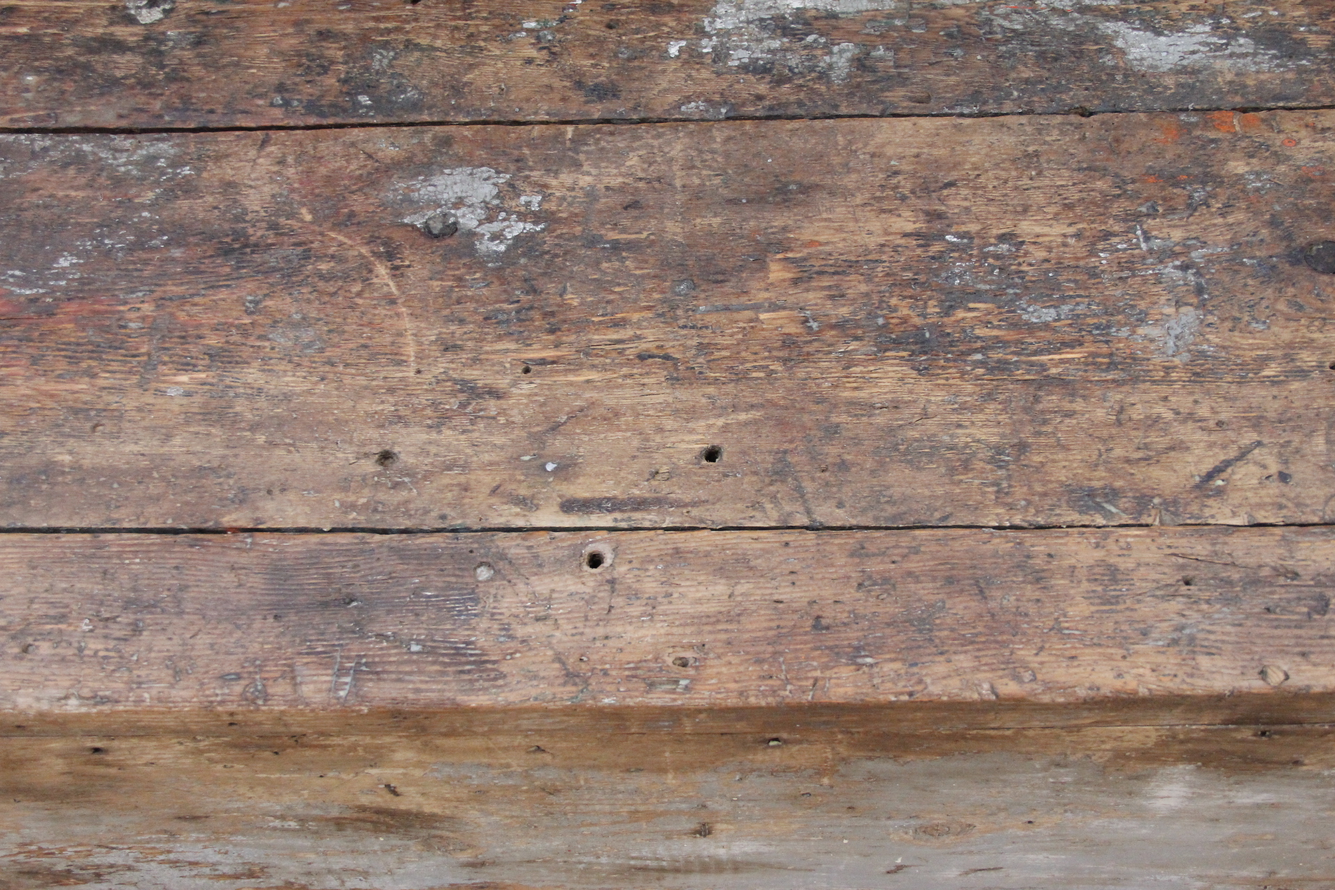
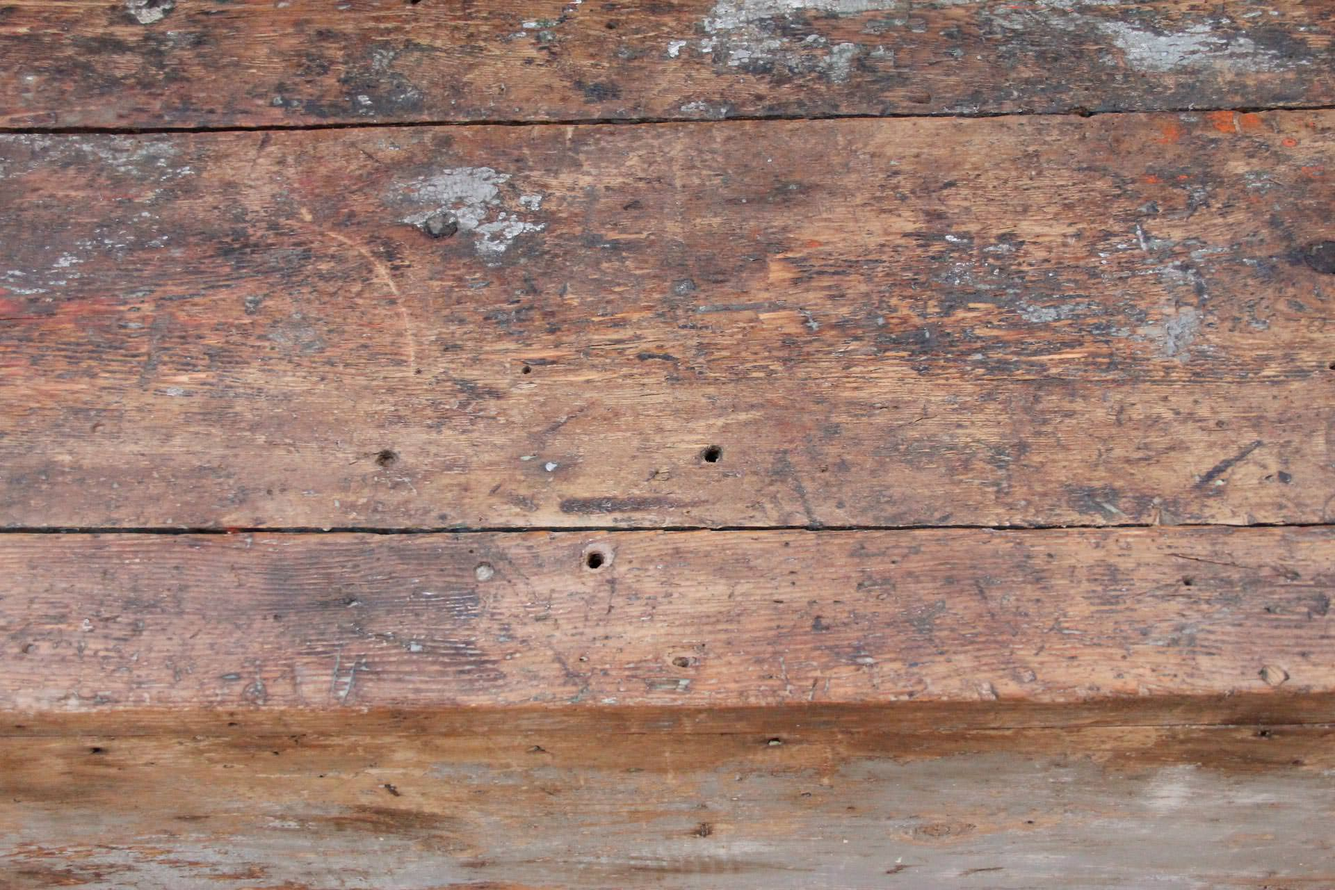
Reworks images and css

diff --git a/app/assets/stylesheets/custom.scss b/app/assets/stylesheets/custom.scss
@@ -4,6 +4,14 @@
   position: relative;
 }
 
+.btn-success {
+  background-color: #6F9000;
+  border-color: #6F9000;
+  &:hover {
+    background-color: darken(#6F9000, 5%);
+  }
+}
+
 // Flashes
 .flashes {
   font-family: "Amatic SC", cursive;
@@ -105,19 +113,23 @@
 }
 
 // Landing page lower section
+.how-it-works {
+  background-image: url("antique-table.jpg");
+
+  img {
+    max-width: 100%;
+  }
+}
+
 .how-header {
-  position: absolute;
-  bottom: 1075px;
-  left: 160px;
   font-family: 'Dawning of a New Day', cursive;
   color: white;
   font-weight: 575;
   font-size: 8em;
+  text-align: center;
 }
 
 .how-text.rounded {
-  position: absolute;
-  bottom: 300px;
   font-family: 'Amatic SC', cursive;
   font-size: 2em;
   font-weight: 600;
@@ -126,37 +138,20 @@
   border-radius: 10px;
 }
 
-  .screenshot1 {
-    position: absolute;
-    bottom: 760px;
-    right: 0px;
+  .screenshot {
     background-color: rgba(219, 220, 202, .7);
-    border-radius: 10px;
     border-style: solid;
-  }
-
-  .screenshot2 {
-    position: absolute;
-    bottom: 450px;
-    right: 0px;
-    background-color: rgba(219, 220, 202, .7);
-    border-radius: 10px;
-    border-style: solid;
-  }
-
-  .screenshot3 {
-    position: absolute;
-    bottom: 270px;
-    right: 0px;
-    background-color: rgba(219, 220, 202, .7);
-    border-radius: 10px;
-    border-style: solid;
+    margin-bottom: 20px;
   }
 
 // User dashboard
 body.user-dashboard {
   padding-top: 70px;
   margin-bottom: 50px;
+}
+
+.entries-table td {
+  vertical-align: middle !important;
 }
 
 .user-image-nav {
@@ -175,6 +170,13 @@ body.user-dashboard {
   font-weight: bold;
   font-size: 3em;
   margin-top: 70px;
+}
+
+.view-btn {
+  font-size: .7em;
+  font-weight: bold;
+  margin: .5em 0;
+  background: #E5E5E5;
 }
 
 .entries-table {
@@ -212,8 +214,10 @@ font-size: 13pt;
 }
 
 .add-entry-btn {
-  margin-top: 30px;
   font-size: 1.2em;
+  width: 2.2em;
+  line-height: 2.2em;
+  padding: 0;
 }
 
 // Entry page buttons

diff --git a/spec/features/new_meal_entry_ux_flow_spec.rb b/spec/features/new_meal_entry_ux_flow_spec.rb
@@ -9,7 +9,7 @@ RSpec.feature "New entry user flow", :type => :feature do
       click_on "Create New Entry"
 
       expect(page).to have_field("Date", with: (Date.today.strftime("%Y-%m-%d")))
-      expect(page).to have_field("Meal", with: "Choose Meal")
+      expect(page).to have_field("Meal")
       expect(page).to have_field("Ingredients", with: "")
       expect(page).to have_field("Notes", with: "")
 

diff --git a/app/controllers/entries_controller.rb b/app/controllers/entries_controller.rb
@@ -3,7 +3,7 @@ class EntriesController < ApplicationController
 
   def new
     if current_user
-      @entry = Entry.new(date: Date.today, meal: "Choose Meal")
+      @entry = Entry.new(date: Date.today)
       @entry.meal = params["meal"] if params["meal"]
       @entry.date = params["date"] if params["date"]
     else
